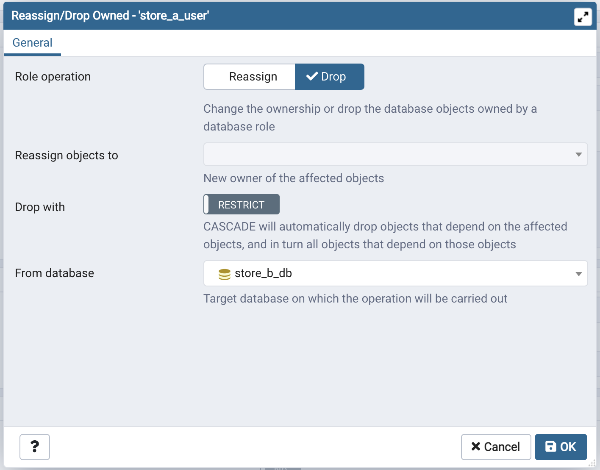
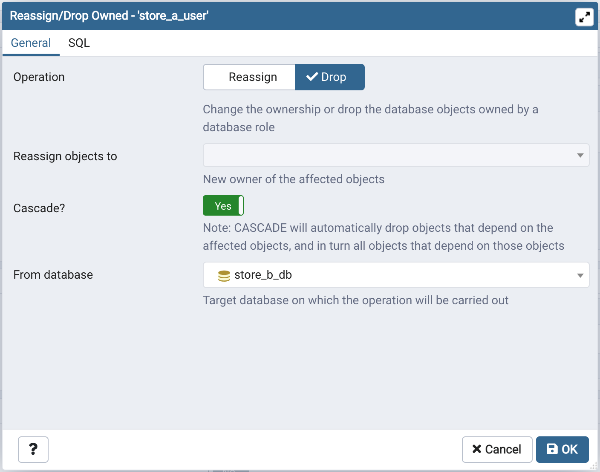
1) Modified some labels and controls.
2) Fixed issue where the same user is showing in SQL query.

3) Added SQL tab in the dialog.

refs #3893

diff --git a/web/pgadmin/browser/server_groups/servers/roles/static/js/role.js b/web/pgadmin/browser/server_groups/servers/roles/static/js/role.js
@@ -392,7 +392,7 @@ define('pgadmin.node.role', [
         var tree = pgBrowser.tree,
           _i = tree.selected(),
           _d = _i && _i.length == 1 ? tree.itemData(_i) : undefined,
-          obj = this, finalUrl;
+          obj = this, finalUrl, old_role_name;
 
         //RoleReassign Model (Objects like role, database)
         var RoleReassignObjectModel = Backbone.Model.extend({
@@ -402,6 +402,7 @@ define('pgadmin.node.role', [
             did: undefined,
             new_role_id: undefined,
             new_role_name: undefined,
+            old_role_name: undefined,
             drop_with_cascade: false
           },
 
@@ -413,7 +414,7 @@ define('pgadmin.node.role', [
           schema: [
             {
               id: 'role_op',
-              label: gettext('Role operation'),
+              label: gettext('Operation'),
               cell: 'string',
               type: 'radioModern',
               controlsClassName: 'pgadmin-controls col-12 col-sm-8',
@@ -538,7 +539,7 @@ define('pgadmin.node.role', [
             },
             {
               id: 'drop_with_cascade',
-              label: gettext('Drop with'),
+              label: gettext('Cascade?'),
               cell: 'string',
               type: 'switch',
               controlsClassName: 'pgadmin-controls col-12 col-sm-8',
@@ -546,8 +547,8 @@ define('pgadmin.node.role', [
               disabled: 'isDisabled',
               group: gettext('General'),
               options: {
-                'onText':  gettext('CASCADE'),
-                'offText':  gettext('RESTRICT'), 'size': 'mini', width: '90'
+                'onText':  gettext('Yes'),
+                'offText':  gettext('No'), 'size': 'mini'
               },
               deps: ['role_op'],
               helpMessage: gettext('Note: CASCADE will automatically drop objects that depend on the affected objects, and in turn all objects that depend on those objects'),
@@ -577,6 +578,38 @@ define('pgadmin.node.role', [
               },
               first_empty: false,
               helpMessage: gettext('Target database on which the operation will be carried out'),
+            },
+            {
+              id: 'sqltab', label: gettext('SQL'), group: gettext('SQL'),
+              type: 'text', disabled: false, control: Backform.SqlTabControl.extend({
+                initialize: function() {
+                  // Initialize parent class
+                  Backform.SqlTabControl.prototype.initialize.apply(this, arguments);
+                },
+                onTabChange: function(sql_tab_obj) {
+                  // Fetch the information only if the SQL tab is visible at the moment.
+                  if (this.dialog && sql_tab_obj.shown == this.tabIndex) {
+                    var self = this,
+                      roleReassignData = self.model.toJSON(),
+                      getUrl;
+                    // Add existing role
+                    roleReassignData.old_role_name = old_role_name;
+
+                    getUrl = obj.generate_url(_i, 'reassign' , _d, true);
+
+                    $.ajax({
+                      url: getUrl,
+                      type: 'GET',
+                      cache: false,
+                      data: roleReassignData,
+                      dataType: 'json',
+                      contentType: 'application/json',
+                    }).done(function(res) {
+                      self.sqlCtrl.setValue(res.data);
+                    });
+                  }
+                },
+              }),
             }
           ],
           validate: function() {
@@ -668,6 +701,7 @@ define('pgadmin.node.role', [
                   node = _d && pgBrowser.Nodes[_d._type];
 
                 finalUrl = obj.generate_url(_i, 'reassign' , _d, true);
+                old_role_name = _d.label;
 
                 if (!_d)
                   return;

diff --git a/web/pgadmin/browser/server_groups/servers/roles/tests/test_role_reassign_own_sql.py b/web/pgadmin/browser/server_groups/servers/roles/tests/test_role_reassign_own_sql.py
@@ -1,0 +1,71 @@
+##########################################################################
+#
+# pgAdmin 4 - PostgreSQL Tools
+#
+# Copyright (C) 2013 - 2021, The pgAdmin Development Team
+# This software is released under the PostgreSQL Licence
+#
+##########################################################################
+
+from pgadmin.utils.route import BaseTestGenerator
+from regression import parent_node_dict
+from regression.python_test_utils import test_utils as utils
+from . import utils as roles_utils
+import json
+from unittest.mock import patch
+
+
+class ReassignRoleSQLTestCase(BaseTestGenerator):
+    """This class tests the role reassign/drop scenario"""
+
+    url = '/browser/role/reassign/'
+
+    # Generates scenarios
+    scenarios = utils.generate_scenarios("role_reassign_sql",
+                                         roles_utils.test_cases)
+
+    def setUp(self):
+        self.server_id = parent_node_dict["server"][-1]["server_id"]
+        self.data = self.test_data
+        self.role_id = 1
+        self.data['did'] = parent_node_dict['database'][-1]['db_id']
+
+        if hasattr(self, 'server_min_version') and \
+            self.server_information['server_version'] \
+                < self.server_min_version:
+            self.skipTest(self.skip_msg)
+
+    def reassign_get_api(self):
+
+        get_response = self.tester.get(
+            self.url + str(utils.SERVER_GROUP) + '/' +
+            str(self.server_id) + '/' + str(self.role_id),
+            data=json.dumps(self.data),
+            follow_redirects=True)
+        return get_response
+
+    def runTest(self):
+
+        """This function tests role reassign/drop scenario"""
+        if self.is_positive_test:
+            get_response = self.reassign_get_api()
+        elif self.mocking_required:
+            with patch(self.mock_data["function_name"],
+                       return_value=eval(self.mock_data["return_value"])):
+                get_response = self.reassign_get_api()
+
+        self.assertEqual(get_response.status_code,
+                         self.expected_data['status_code'])
+
+        self.assertEqual(get_response.json['data'],
+                         self.expected_data['test_result_data']['result'])
+
+    def tearDown(self):
+        """This function delete the role from added server"""
+        connection = utils.get_db_connection(self.server['db'],
+                                             self.server['username'],
+                                             self.server['db_password'],
+                                             self.server['host'],
+                                             self.server['port'],
+                                             self.server['sslmode'])
+        connection.close()

diff --git a/web/pgadmin/browser/server_groups/servers/roles/__init__.py b/web/pgadmin/browser/server_groups/servers/roles/__init__.py
@@ -1302,6 +1302,61 @@ WHERE
         return status, res
 
     @check_precondition()
+    def get_reassign_own_sql(self, gid, sid, rid):
+
+        """
+        This function is used to generate sql for reassign/drop role.
+
+        Args:
+            sid: Server ID
+            rid: Role Id.
+
+        Returns: Json object with sql generate
+        """
+
+        try:
+
+            data = dict()
+
+            if request.data:
+                data = json.loads(request.data, encoding='utf-8')
+            else:
+                rargs = request.args or request.form
+                for k, v in rargs.items():
+                    try:
+                        data[k] = json.loads(v, encoding='utf-8')
+                    except ValueError as ve:
+                        data[k] = v
+
+            required_args = ['role_op', 'did', 'old_role_name',
+                             'new_role_name'] \
+                if 'role_op' in data and data['role_op'] == 'reassign' \
+                else ['role_op', 'did', 'drop_with_cascade']
+
+            for arg in required_args:
+                if arg not in data:
+                    return make_json_response(
+                        data=gettext("-- definition incomplete"),
+                        status=200
+                    )
+
+            is_reassign = True if data['role_op'] == 'reassign' else False
+            data['is_reassign'] = is_reassign
+
+            sql = render_template(
+                "/".join([self.sql_path, _REASSIGN_OWN_SQL]),
+                data=data
+            )
+
+            return make_json_response(
+                data=sql.strip('\n'),
+                status=200
+            )
+
+        except Exception as e:
+            return False, internal_server_error(errormsg=str(e))
+
+    @check_precondition()
     def role_reassign_own(self, gid, sid, rid):
 
         """
@@ -1387,8 +1442,9 @@ WHERE
 
             return make_json_response(
                 success=1,
-                info=gettext("Reassign owned successfully!") if is_reassign
-                else gettext("Drop owned successfully!")
+                info=gettext("Reassign owned executed successfully!")
+                if is_reassign
+                else gettext("Drop owned executed successfully!")
             )
 
         except Exception as e:

diff --git a/docs/en_US/role_reassign_dialog.rst b/docs/en_US/role_reassign_dialog.rst
@@ -5,32 +5,44 @@
 `Role Reassign/Drop Own Dialog`:index:
 **************************************
 
-Use the *Role Reassign/Drop Own* dialog to change the ownership of database objects owned
+Use the *Reassign/Drop Own* dialog to change the ownership of database objects owned
 by a database role. This dialog instructs the system to change the ownership of database
 objects owned by any of the *old_roles* to *new_role*.
 
-The *Role Reassign/Drop Own* dialog organizes the Reassign & Drop role through General tab.
+The *Reassign/Drop Own* dialog organizes the Reassign & Drop role through General tab.
 
 .. image:: images/role_reassign_dialog.png
-    :alt: Role Reassign/Drop Own dialog
+    :alt: Reassign/Drop Own dialog
     :align: center
 
-* Use the *Role operation* field to provide Reassign option.
+* Use the *Operation* field to provide Reassign option.
 * Provide a new role in the *Reassign Objects to* field; The ownership of all the objects within the selected database,
   and of all shared objects (databases, tablespaces), owned by the *old_role* will be reassigned to *new_role*.
 * Provide a database on which the reassignment is to be carried out.
 
 The above example demonstrates reassigning *old_role* to *new_role*.
 
+Click the *SQL* tab to continue.
+
+.. image:: images/role_reassign_dialog_sql.png
+    :alt: Reassign/Drop Own dialog sql
+    :align: center
+
 Removing database objects owned by a database role.
 
 .. image:: images/role_drop_dialog.png
-    :alt: Role Reassign/Drop Own dialog
+    :alt: Reassign/Drop Own dialog
     :align: center
 
-* Use the *Role operation* field to provide Drop option.
-* Use the *Drop with* field to provide CASCADE option, RESTRICT is default.
+* Use the *Operation* field to provide Drop option.
+* Use the *Cascade?* field to provide Yes, No is default.
 * Provide a database on which the drop of objects is to be carried out.
+
+Click the *SQL* tab to continue.
+
+.. image:: images/role_drop_dialog_sql.png
+    :alt: Reassign/Drop Own dialog sql
+    :align: center
 
 The above examples demonstrates drop owned by *role*.
 
